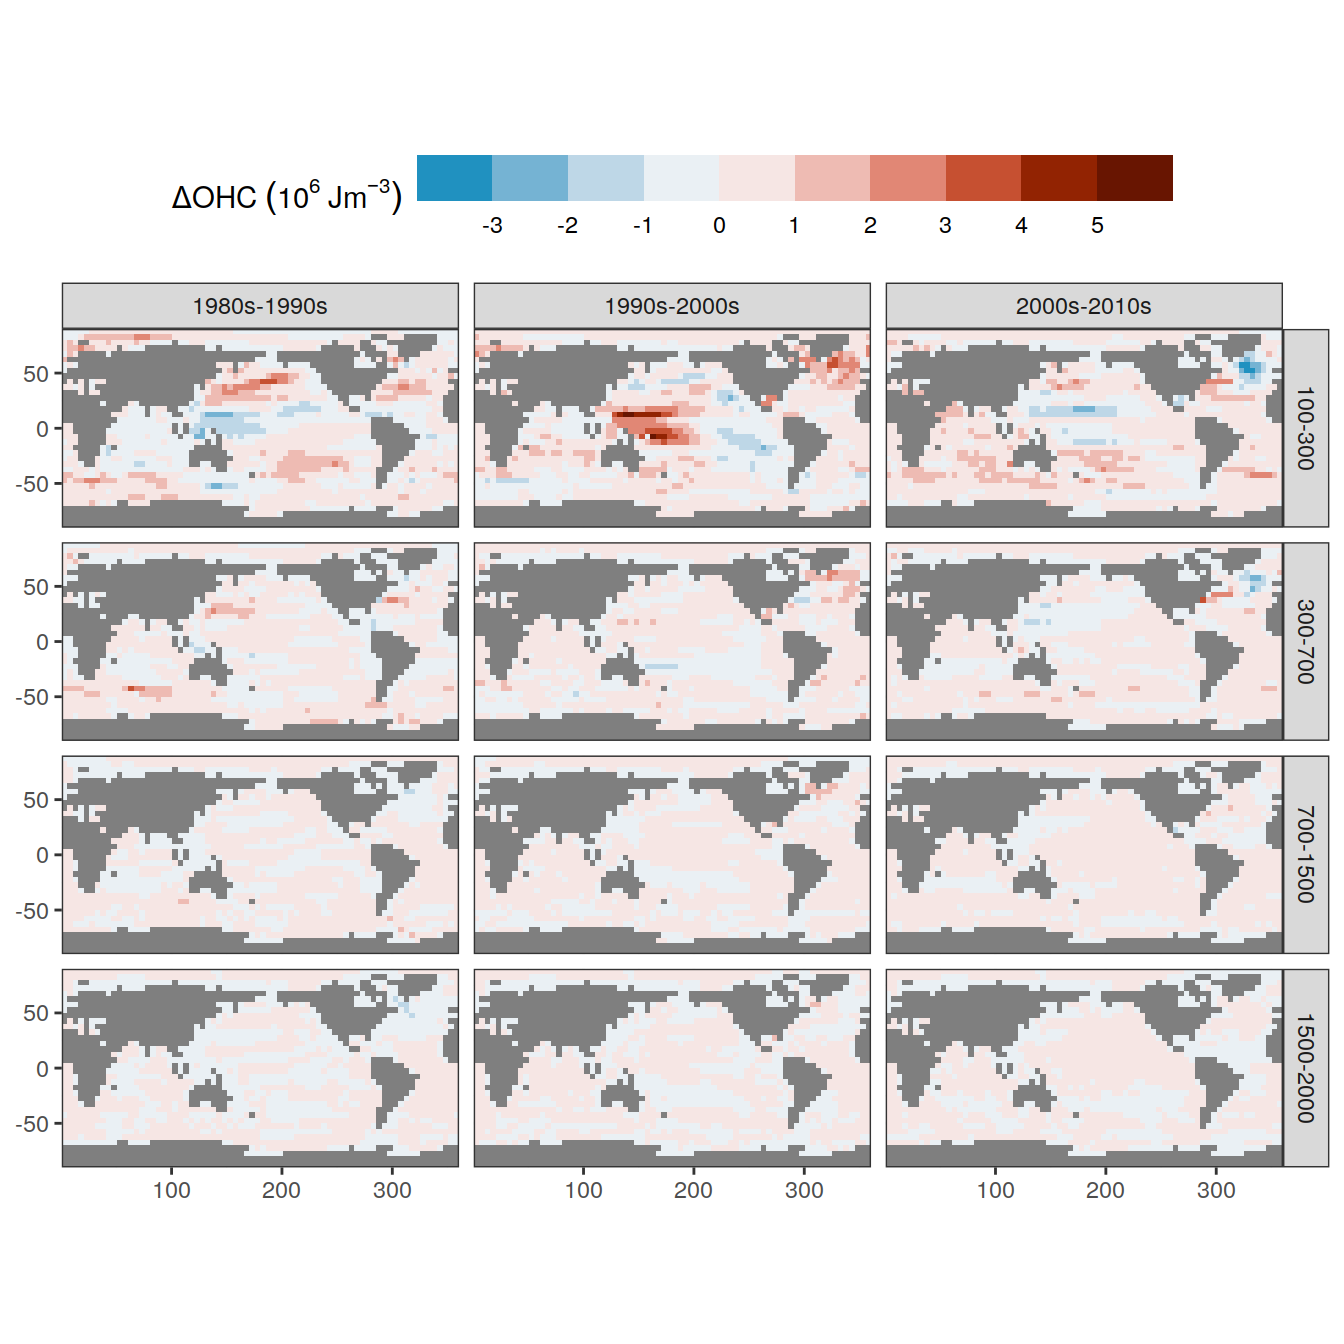
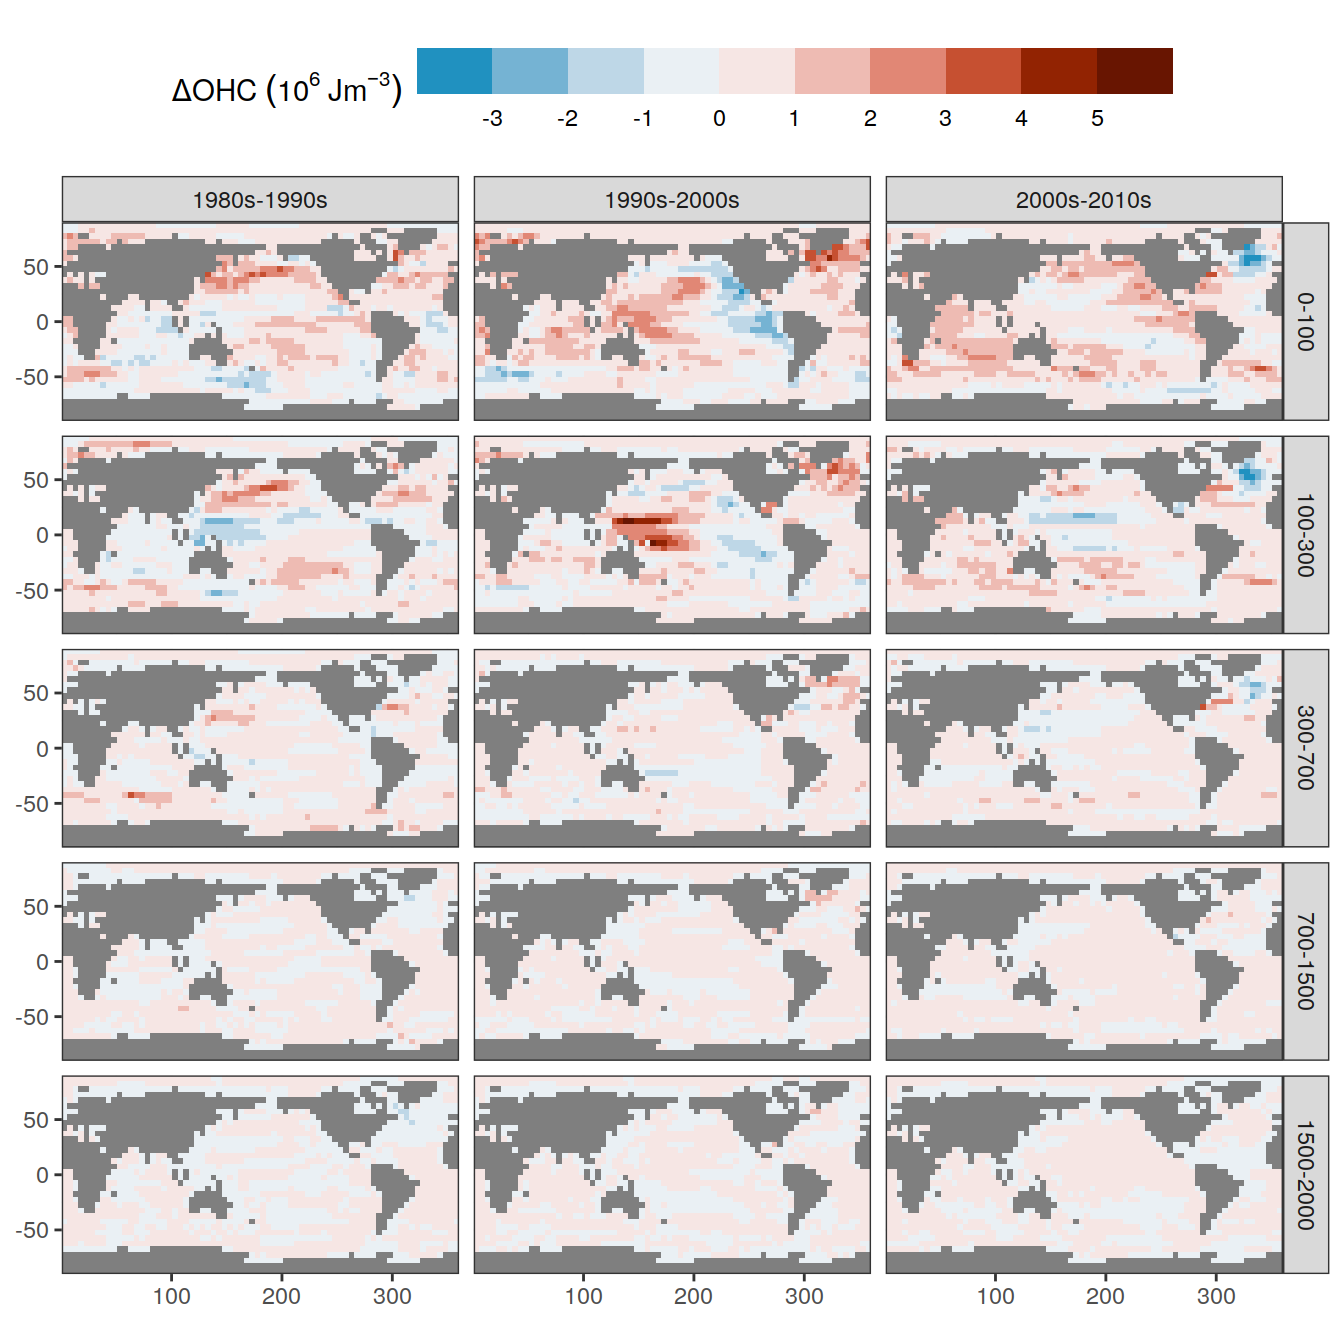
Build site.

diff --git a/docs/read_ohc_data.html b/docs/read_ohc_data.html
@@ -503,16 +503,16 @@ This reproducible <a href="https://rmarkdown.rstudio.com">R Markdown</a> analysi
 <div class="panel panel-default">
 <div class="panel-heading">
 <p class="panel-title">
-<a data-toggle="collapse" data-parent="#workflowr-checks" href="#strongRepositoryversionstrongahrefhttpsgithubcomjensdanielmuelleroceanheatandcarboncontenttree56c9b10e85a823da6e859d675dbebaf33c1dc569targetblank56c9b10a"> <span class="glyphicon glyphicon-ok text-success" aria-hidden="true"></span> <strong>Repository version:</strong> <a href="https://github.com/jens-daniel-mueller/ocean_heat_and_carbon_content/tree/56c9b10e85a823da6e859d675dbebaf33c1dc569" target="_blank">56c9b10</a> </a>
+<a data-toggle="collapse" data-parent="#workflowr-checks" href="#strongRepositoryversionstrongahrefhttpsgithubcomjensdanielmuelleroceanheatandcarboncontenttreeecc37d4976db28ab9810839c41031c821c325f8ctargetblankecc37d4a"> <span class="glyphicon glyphicon-ok text-success" aria-hidden="true"></span> <strong>Repository version:</strong> <a href="https://github.com/jens-daniel-mueller/ocean_heat_and_carbon_content/tree/ecc37d4976db28ab9810839c41031c821c325f8c" target="_blank">ecc37d4</a> </a>
 </p>
 </div>
[2 lines of base64/hex data omitted]
 <div class="panel-body">
 <p>
 Great! You are using Git for version control. Tracking code development and connecting the code version to the results is critical for reproducibility.
 </p>
 <p>
-The results in this page were generated with repository version <a href="https://github.com/jens-daniel-mueller/ocean_heat_and_carbon_content/tree/56c9b10e85a823da6e859d675dbebaf33c1dc569" target="_blank">56c9b10</a>. See the <em>Past versions</em> tab to see a history of the changes made to the R Markdown and HTML files.
+The results in this page were generated with repository version <a href="https://github.com/jens-daniel-mueller/ocean_heat_and_carbon_content/tree/ecc37d4976db28ab9810839c41031c821c325f8c" target="_blank">ecc37d4</a>. See the <em>Past versions</em> tab to see a history of the changes made to the R Markdown and HTML files.
 </p>
 <p>
 Note that you need to be careful to ensure that all relevant files for the analysis have been committed to Git prior to generating the results (you can use <code>wflow_publish</code> or <code>wflow_git_commit</code>). workflowr only checks the R Markdown file, but you know if there are other scripts or data files that it depends on. Below is the status of the Git repository when the results were generated:
@@ -521,7 +521,6 @@ Note that you need to be careful to ensure that all relevant files for the analy
 Ignored files:
     Ignored:    .Rhistory
     Ignored:    .Rproj.user/
-    Ignored:    analysis/figure/
 
 Untracked files:
     Untracked:  code/Workflowr_project_managment.R
@@ -563,6 +562,40 @@ Message
 </tr>
 </thead>
 <tbody>
+<tr>
+<td>
+Rmd
+</td>
+<td>
+<a href="https://github.com/jens-daniel-mueller/ocean_heat_and_carbon_content/blob/ecc37d4976db28ab9810839c41031c821c325f8c/analysis/read_ohc_data.Rmd" target="_blank">ecc37d4</a>
+</td>
+<td>
+jens-daniel-mueller
+</td>
+<td>
+2022-09-02
+</td>
+<td>
+included top layer changes
+</td>
+</tr>
+<tr>
+<td>
+html
+</td>
+<td>
+<a href="https://rawcdn.githack.com/jens-daniel-mueller/ocean_heat_and_carbon_content/dd1132177abb09dd66a7467c067ef759a18b9c43/docs/read_ohc_data.html" target="_blank">dd11321</a>
+</td>
+<td>
+jens-daniel-mueller
+</td>
+<td>
+2022-09-02
+</td>
+<td>
+Build site.
+</td>
+</tr>
 <tr>
 <td>
 Rmd
@@ -1130,8 +1163,8 @@ jens-daniel-mueller
 </div>
 <div id="decadal-changes" class="section level1" number="4">
 <h1><span class="header-section-number">4</span> Decadal changes</h1>
-<div id="total-column-inventories" class="section level2" number="4.1">
-<h2><span class="header-section-number">4.1</span> Total column inventories</h2>
+<div id="full-column-inventories" class="section level2" number="4.1">
+<h2><span class="header-section-number">4.1</span> Full column inventories</h2>
 <pre class="r"><code>ohc_decade &lt;- ohc_stars_mean %&gt;% 
   as_tibble()
 
@@ -1198,6 +1231,17 @@ Date
 <tbody>
 <tr>
 <td>
+<a href="https://github.com/jens-daniel-mueller/ocean_heat_and_carbon_content/blob/dd1132177abb09dd66a7467c067ef759a18b9c43/docs/figure/read_ohc_data.Rmd/decadal_changes_total_column_inventories-1.png" target="_blank">dd11321</a>
+</td>
+<td>
+jens-daniel-mueller
+</td>
+<td>
+2022-09-02
+</td>
+</tr>
+<tr>
+<td>
 <a href="https://github.com/jens-daniel-mueller/ocean_heat_and_carbon_content/blob/7b444c50f8a03ac899715fd4e2aa0d0554c5d140/docs/figure/read_ohc_data.Rmd/decadal_changes_total_column_inventories-1.png" target="_blank">7b444c5</a>
 </td>
 <td>
@@ -1225,18 +1269,17 @@ jens-daniel-mueller
 </div>
 <div id="depth-layer-column-inventories" class="section level2" number="4.2">
 <h2><span class="header-section-number">4.2</span> Depth layer column inventories</h2>
-<div id="total-change" class="section level3" number="4.2.1">
-<h3><span class="header-section-number">4.2.1</span> Total change</h3>
+<div id="integrated-change" class="section level3" number="4.2.1">
+<h3><span class="header-section-number">4.2.1</span> Integrated change</h3>
 <pre class="r"><code>ohc_decade_change_layer &lt;- ohc_decade_change %&gt;%
   arrange(depth) %&gt;%
   group_by(lon, lat, delta_decade) %&gt;%
-  mutate(delta_OHC_layer = delta_OHC - lag(delta_OHC),
-         layer_thickness = depth - lag(depth),
+  mutate(delta_OHC_layer = delta_OHC - lag(delta_OHC, default = 0),
+         layer_thickness = depth - lag(depth, default = 0),
          delta_OHC_layer_per_m = delta_OHC_layer / layer_thickness,
-         layer = paste(lag(depth), depth, sep = &quot;-&quot;),
+         layer = paste(lag(depth, default = 0), depth, sep = &quot;-&quot;),
          layer = fct_inorder(layer)) %&gt;%
-  ungroup() %&gt;%
-  filter(layer != min(&quot;NA-100&quot;))
+  ungroup()
   
 ohc_decade_change_layer %&gt;% 
   ggplot(aes(lon, lat, fill = delta_OHC_layer)) +
@@ -1277,6 +1320,17 @@ Date
 <tbody>
 <tr>
 <td>
+<a href="https://github.com/jens-daniel-mueller/ocean_heat_and_carbon_content/blob/dd1132177abb09dd66a7467c067ef759a18b9c43/docs/figure/read_ohc_data.Rmd/decadal_changes_column_inventories_depth_layer_total-1.png" target="_blank">dd11321</a>
+</td>
+<td>
+jens-daniel-mueller
+</td>
+<td>
+2022-09-02
+</td>
+</tr>
+<tr>
+<td>
 <a href="https://github.com/jens-daniel-mueller/ocean_heat_and_carbon_content/blob/8f2b2309c8abee114c8e193682956b351dd31d6f/docs/figure/read_ohc_data.Rmd/decadal_changes_column_inventories_depth_layer_total-1.png" target="_blank">8f2b230</a>
 </td>
 <td>
@@ -1303,7 +1357,7 @@ jens-daniel-mueller
 </div>
 </div>
 <div id="concentration-change" class="section level3" number="4.2.2">
-<h3><span class="header-section-number">4.2.2</span> “Concentration” change</h3>
+<h3><span class="header-section-number">4.2.2</span> Concentration change</h3>
 <pre class="r"><code>ohc_decade_change_layer %&gt;%
   ggplot(aes(lon, lat, fill = delta_OHC_layer_per_m * 1e3)) +
   geom_raster() +
